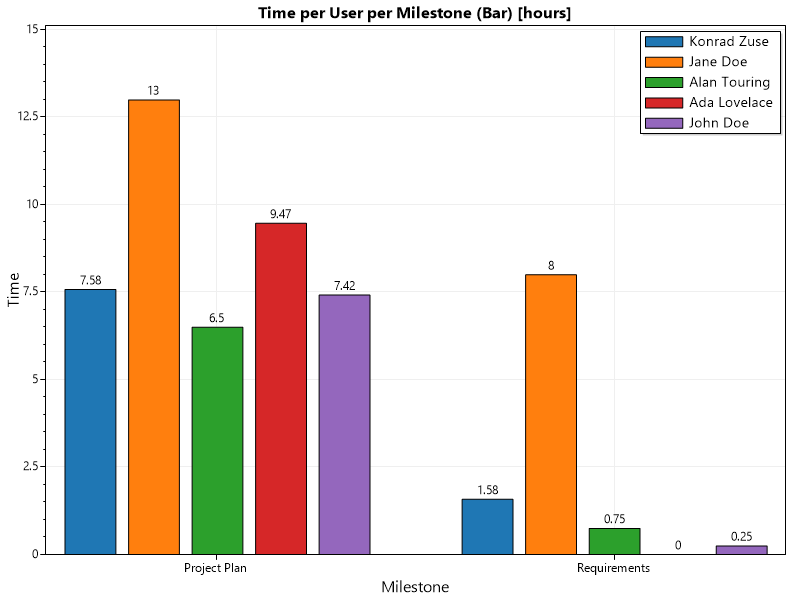
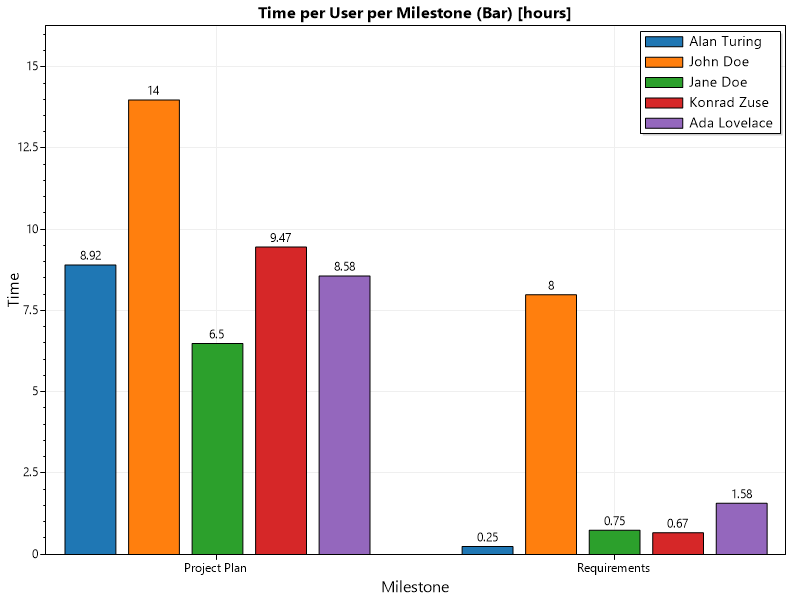
update example fix bug where edge data of weeks would be attributed to wrong week

diff --git a/gttcharts/Charting/GttChartBuilderUtils.cs b/gttcharts/Charting/GttChartBuilderUtils.cs
@@ -89,7 +89,7 @@ namespace gttcharts.Charting
             // always compare to end of project week
             DateTime runner = options.ProjectStart.AddDays(7);
             int weeknr = 1;
-            while (runner < date)
+            while (runner <= date)
             {
                 runner = runner.AddDays(7);
                 weeknr++;
